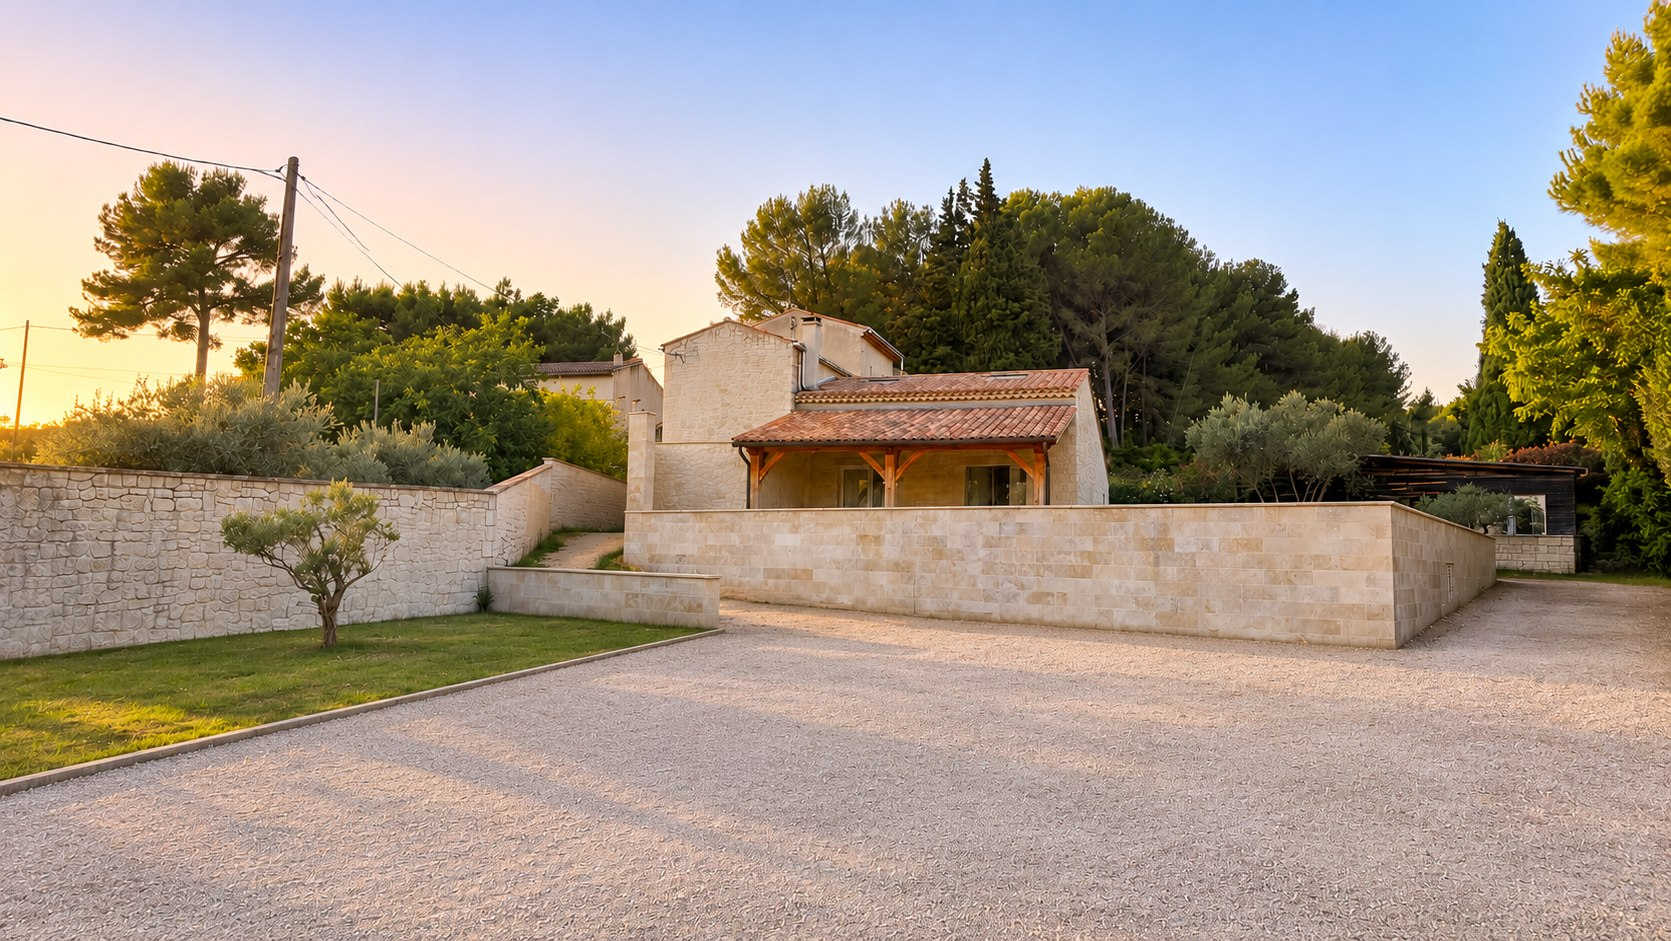
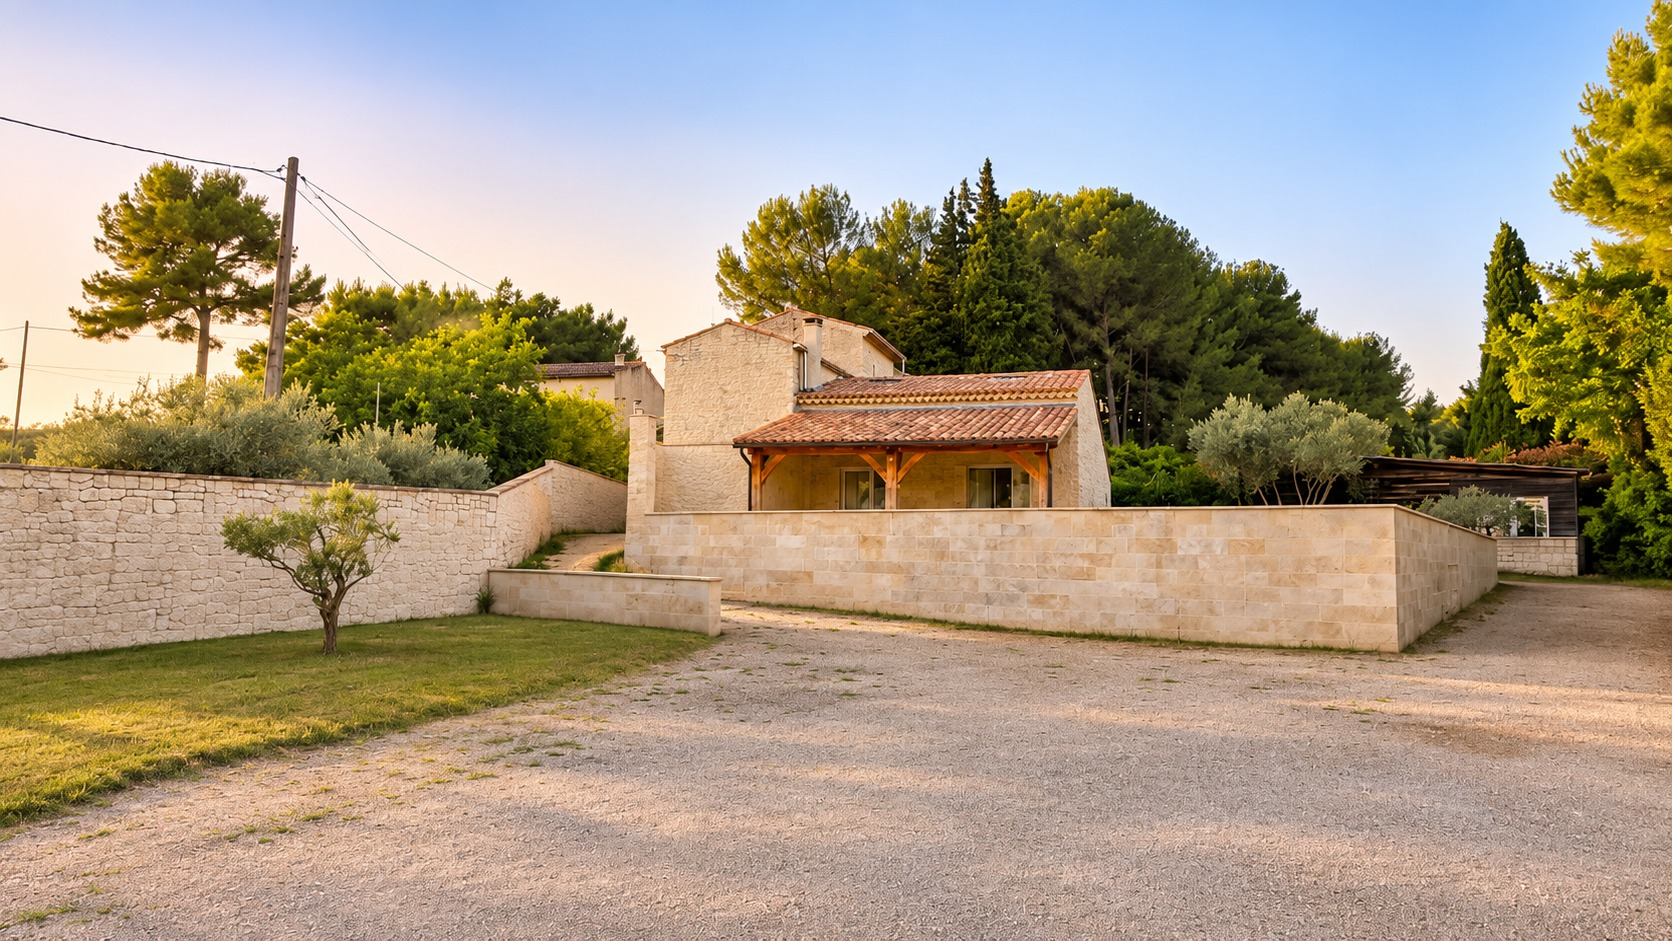
Add files via upload

diff --git a/style.css b/style.css
@@ -1,2 +1,41 @@
 
 :root{--olive:#35482d;--sand:#f5f0e7;--ink:#292e27;--muted:#5b6259}*{box-sizing:border-box}html{scroll-behavior:smooth}body{margin:0;background:var(--sand);color:var(--ink);font-family:Arial,Helvetica,sans-serif;line-height:1.75}a{color:inherit}.nav{background:#fff;display:flex;align-items:center;justify-content:space-between;gap:24px;padding:18px max(22px,calc((100vw - 1160px)/2));position:relative;z-index:5}.logo{font:normal 24px Georgia,serif;text-decoration:none;color:var(--olive)}.links{display:flex;align-items:center;gap:22px;flex-wrap:wrap}.links a{text-decoration:none;font-size:12px;letter-spacing:.06em;text-transform:uppercase}.links a[aria-current=page]{color:var(--olive);border-bottom:2px solid var(--olive);font-weight:700}.links a:hover{text-decoration:underline}.hero{min-height:620px;display:grid;place-items:center;position:relative;isolation:isolate;overflow:hidden;background:#81917c;color:#fff;text-align:center}.hero img{position:absolute;inset:0;width:100%;height:100%;object-fit:cover;object-position:center 55%;z-index:-2;animation:fadePhoto 2.2s ease both}.hero:after{content:'';position:absolute;inset:0;z-index:-1;background:linear-gradient(180deg,#1d271e61,#1d271e30 40%,#14200b8a)}.hero-content{padding:60px 20px}.overline,.kicker{letter-spacing:.24em;text-transform:uppercase;font-size:12px;font-weight:700}.hero h1{font:italic normal clamp(58px,10vw,130px)/1.04 Georgia,serif;margin:15px 0 24px}.hero p{font-size:clamp(15px,2vw,19px);line-height:1.8}.hero .overline,.hero h1,.hero .tagline,.hero .btn{animation:rise .9s both}.hero .overline{animation-delay:.9s}.hero h1{animation-delay:1.3s}.hero .tagline{animation-delay:1.7s}.hero .btn{animation-delay:2.1s}.btn{display:inline-flex;align-items:center;justify-content:center;text-decoration:none;padding:13px 25px;min-height:48px;background:var(--olive);color:white;border:1px solid var(--olive);font-size:12px;letter-spacing:.1em;text-transform:uppercase;margin-top:20px;transition:background .2s}.btn:hover{background:#4d6640}.btn.outline{color:var(--olive);background:transparent}.btn.outline:hover{background:#e6e9e1}.content{max-width:1160px;margin:auto;padding:78px 22px 95px}.content.narrow{max-width:860px}.page-intro{background:white}.page-head{text-align:center;padding:70px 22px 68px;background:#e8e9df}.page-head h1{font:normal clamp(40px,5vw,64px)/1.12 Georgia,serif;color:var(--olive);margin:12px 0 14px}.page-head p{max-width:720px;margin:0 auto;color:#485047;font-size:17px}.kicker{color:#76826b;margin:0}h2{font:normal clamp(30px,3.8vw,47px)/1.14 Georgia,serif;color:var(--olive);margin:12px 0 22px}h3{font:normal 25px Georgia,serif;color:var(--olive);margin:12px 0}.center{text-align:center}.center>p{max-width:780px;margin-left:auto;margin-right:auto}.cards{display:grid;grid-template-columns:repeat(3,minmax(0,1fr));gap:22px;margin-top:35px}.cards.two{grid-template-columns:repeat(2,minmax(0,1fr))}.card{padding:34px 30px;background:white;border-top:3px solid #9daa90}.card p{color:var(--muted);margin:0}.card .icon{font-size:28px}.split{display:grid;grid-template-columns:1.1fr 1fr;gap:55px;align-items:center}.split img{display:block;width:100%;aspect-ratio:4/3;object-fit:cover}.subnav{display:flex;justify-content:center;gap:15px;flex-wrap:wrap;margin-top:30px}.notice{background:#e8e9df;padding:27px;border-left:3px solid var(--olive)}.page-photo{width:100%;height:330px;object-fit:cover;display:block}footer{padding:27px 18px;background:var(--olive);color:#edf0e9;text-align:center;font-size:12px}footer a{margin:0 8px}.contact-cta{text-align:center;background:white;padding:65px 22px}.contact-cta p{max-width:700px;margin:auto}.note{color:#666;font-size:14px}.menu-toggle{display:none} @keyframes fadePhoto{from{opacity:0;transform:scale(1.04)}to{opacity:1;transform:scale(1)}}@keyframes rise{from{opacity:0;transform:translateY(18px)}to{opacity:1;transform:translateY(0)}}@media(max-width:760px){.nav{align-items:flex-start;flex-wrap:wrap;padding:15px 20px}.logo{font-size:21px}.menu-toggle{display:block;margin-left:auto;background:white;border:1px solid #aab3a6;color:var(--olive);padding:9px 13px;font:inherit;cursor:pointer}.links{display:none;flex-basis:100%;flex-direction:column;align-items:flex-start;gap:13px;padding:14px 0}.links.open{display:flex}.hero{min-height:590px}.hero h1{font-size:clamp(54px,12vw,82px)}.content{padding:56px 22px 70px}.cards,.cards.two,.split{grid-template-columns:1fr}.split{gap:25px}.page-head{padding:55px 22px}.page-photo{height:230px}}@media(prefers-reduced-motion:reduce){html{scroll-behavior:auto}.hero img,.hero .overline,.hero h1,.hero .tagline,.hero .btn{animation:none}}
+
+
+/* ACCUEIL V2 — styles indépendants, sans modifier les autres pages */
+.home-v2{background:#faf8f4}
+.home-v2 .nav{padding-top:16px;padding-bottom:16px}
+.home-v2 .logo em{font-weight:normal}
+.home-v2 .nav-contact{padding:10px 16px;border:1px solid var(--olive);color:var(--olive)}
+.home-v2 .esc-home-hero{height:clamp(570px,73vw,740px);position:relative;display:flex;align-items:center;justify-content:center;isolation:isolate;color:white;overflow:hidden;background:#68736a;text-align:center}
+.home-v2 .esc-home-photo{position:absolute;inset:0;width:100%;height:100%;object-fit:cover;object-position:center 56%;z-index:-2;animation:escReveal 2.1s ease-out both}
+.home-v2 .esc-home-shade{position:absolute;inset:0;z-index:-1;background:linear-gradient(180deg,rgba(24,35,27,.28),rgba(25,35,28,.27) 38%,rgba(23,36,28,.65) 100%)}
+.home-v2 .esc-home-copy{position:relative;padding:32px 22px;max-width:900px;margin-top:12px}
+.home-v2 .esc-home-location{display:inline-block;text-transform:uppercase;letter-spacing:.33em;font-size:11px;font-weight:700;animation:escLift 1s 1s both}
+.home-v2 .esc-home-prefix{font:normal 27px Georgia,serif;margin:25px 0 -4px;animation:escLift 1s 1.4s both}
+.home-v2 .esc-home-copy h1{font:italic normal clamp(65px,11.2vw,151px)/1 Georgia,serif;letter-spacing:-.035em;margin:0 0 23px;animation:escLift 1.2s 1.8s both;text-wrap:balance}
+.home-v2 .esc-home-desc{font:normal clamp(16px,2vw,21px)/1.6 Georgia,serif;margin:0 auto 13px;max-width:680px;animation:escLift 1s 2.2s both}
+.home-v2 .esc-home-action{display:inline-flex;align-items:center;justify-content:center;gap:24px;margin-top:25px;padding:13px 23px;border:1px solid rgba(255,255,255,.85);color:white;background:rgba(38,57,41,.55);text-decoration:none;text-transform:uppercase;letter-spacing:.12em;font-size:11px;min-height:49px;transition:background .2s ease;animation:escLift 1s 2.6s both}
+.home-v2 .esc-home-action:hover{background:#35482d}
+.home-v2 .esc-home-corner{position:absolute;right:28px;bottom:20px;font-size:10px;letter-spacing:.2em;color:#f7f7f5a6}
+.home-v2 .esc-home-summary{display:flex;justify-content:center;align-items:center;gap:0;background:#35482d;color:#fff;padding:24px 25px;text-align:center}
+.home-v2 .esc-home-summary span{font-size:12px;letter-spacing:.07em;padding:5px 34px;border-right:1px solid #ffffff38}
+.home-v2 .esc-home-summary span:last-child{border:0}
+.home-v2 .esc-home-summary strong{font-weight:700;color:#fff}
+.home-v2 .esc-home-intro{max-width:830px;text-align:center;margin:auto;padding:76px 25px 49px}
+.home-v2 .esc-home-intro h2{font-size:clamp(32px,4.1vw,53px);margin:16px auto 23px;max-width:800px}
+.home-v2 .esc-home-intro>p:last-child{color:#5c6259;max-width:740px;margin:auto;font-size:16px}
+.home-v2 .esc-home-directory{max-width:1170px;margin:0 auto;padding:0 25px 90px;display:grid;grid-template-columns:repeat(3,minmax(0,1fr));gap:18px}
+.home-v2 .esc-home-tile{min-height:220px;background:#f0eee7;text-decoration:none;padding:25px 28px;display:flex;flex-direction:column;position:relative;border-top:2px solid #a6af99;transition:background .2s ease,transform .2s ease}
+.home-v2 .esc-home-tile:hover{background:#e6e9dd;transform:translateY(-3px)}
+.home-v2 .esc-home-number{font-size:11px;letter-spacing:.16em;color:#8c9685}
+.home-v2 .esc-home-tile-title{font:normal 30px Georgia,serif;color:#35482d;margin-top:25px}
+.home-v2 .esc-home-tile-note{font-size:13px;color:#687064;margin-top:9px}
+.home-v2 .esc-home-arrow{position:absolute;right:25px;bottom:18px;font:normal 25px Georgia,serif;color:#35482d}
+.home-v2 .esc-home-bottom{background:#e7e9df;padding:52px max(25px,calc((100vw - 1100px)/2));display:flex;align-items:center;justify-content:space-between;gap:35px}
+.home-v2 .esc-home-bottom h2{margin-bottom:0;font-size:clamp(32px,3.7vw,45px)}
+.home-v2 .esc-home-bottom .esc-home-action{animation:none;margin:0;flex-shrink:0;background:#35482d;border-color:#35482d}
+@keyframes escReveal{from{opacity:0;transform:scale(1.035)}to{opacity:1;transform:scale(1)}}
+@keyframes escLift{from{opacity:0;transform:translateY(19px)}to{opacity:1;transform:translateY(0)}}
+@media(max-width:760px){.home-v2 .nav-contact{border:0;padding:0}.home-v2 .esc-home-hero{height:590px}.home-v2 .esc-home-prefix{font-size:21px}.home-v2 .esc-home-copy h1{font-size:clamp(51px,12vw,85px);margin-bottom:17px}.home-v2 .esc-home-desc{font-size:16px}.home-v2 .esc-home-summary{flex-wrap:wrap;gap:7px;padding:20px 12px}.home-v2 .esc-home-summary span{width:100%;border-right:0;padding:2px}.home-v2 .esc-home-intro{padding:60px 22px 43px}.home-v2 .esc-home-directory{grid-template-columns:1fr;padding:0 22px 65px;gap:12px}.home-v2 .esc-home-tile{min-height:165px}.home-v2 .esc-home-tile-title{margin-top:14px}.home-v2 .esc-home-bottom{flex-direction:column;align-items:flex-start;padding:47px 25px}}
+@media(prefers-reduced-motion:reduce){.home-v2 .esc-home-photo,.home-v2 .esc-home-location,.home-v2 .esc-home-prefix,.home-v2 .esc-home-copy h1,.home-v2 .esc-home-desc,.home-v2 .esc-home-action{animation:none}}

diff --git a/index.html b/index.html
@@ -1,1 +1,64 @@
-<!doctype html><html lang="fr"><head><meta charset="utf-8"><meta name="viewport" content="width=device-width,initial-scale=1"><meta name="description" content="Chambres meublées à Saint-Chamas, avec espaces privatifs et communs. Locations à la semaine et au mois."><title>Accueil | Domaine L’Escapade</title><link rel="stylesheet" href="style.css"></head><body><header><nav class="nav" aria-label="Menu principal"><a class="logo" href="index.html">Domaine L’Escapade</a><button class="menu-toggle" type="button" aria-expanded="false" aria-controls="nav-links">☰ Menu</button><div class="links" id="nav-links"><a href="index.html" aria-current="page">Accueil</a><a href="chambres.html">Nos chambres</a><a href="espaces.html">Espaces communs</a><a href="locations.html">Locations</a><a href="contact.html">Contact</a></div></nav></header><main><section class="hero"><img src="assets/domaine.jpg" alt="Domaine L’Escapade à Saint-Chamas, façade en pierre et terrasse"><div class="hero-content"><div class="overline">Saint-Chamas · Provence</div><h1>L’Escapade</h1><p class="tagline">Cinq chambres meublées avec salle de bain et WC privatifs<br>Locations à la semaine, au mois ou pour une durée prolongée</p><a class="btn" href="chambres.html">Découvrir nos chambres</a></div></section><section class="content center"><p class="kicker">Bienvenue</p><h2>Un lieu où séjourner à votre rythme</h2><p>Au Domaine L’Escapade, nous proposons cinq chambres meublées à Saint-Chamas, adaptées notamment aux déplacements professionnels et aux séjours prolongés. Chacun dispose de son espace privatif et profite d’équipements communs pour le quotidien.</p><div class="cards"><article class="card"><span class="icon" aria-hidden="true">🛏</span><h3>Nos chambres</h3><p>Cinq chambres avec salle de bain et WC privatifs.</p><a class="btn outline" href="chambres.html">Voir les chambres</a></article><article class="card"><span class="icon" aria-hidden="true">🍳</span><h3>Espaces communs</h3><p>Cuisine équipée et espace buanderie à partager.</p><a class="btn outline" href="espaces.html">Découvrir</a></article><article class="card"><span class="icon" aria-hidden="true">📅</span><h3>Vos locations</h3><p>À la semaine, au mois ou sur une durée plus longue.</p><a class="btn outline" href="locations.html">Les formules</a></article></div></section><section class="contact-cta"><p class="kicker">Votre séjour</p><h2>Une question sur les disponibilités ?</h2><p>Indiquez-nous les dates et la durée de location envisagées pour recevoir les renseignements utiles.</p><a class="btn" href="contact.html">Nous contacter</a></section></main><footer>© 2026 Domaine L’Escapade · Saint-Chamas<br><a href="index.html">Accueil</a> · <a href="chambres.html">Nos chambres</a> · <a href="espaces.html">Espaces communs</a> · <a href="locations.html">Locations</a> · <a href="contact.html">Contact</a></footer><script>const b=document.querySelector('.menu-toggle');const links=document.querySelector('.links');b.addEventListener('click',()=>{const open=links.classList.toggle('open');b.setAttribute('aria-expanded',String(open));});</script></body></html>
+<!doctype html>
+<html lang="fr">
+<head>
+  <meta charset="utf-8">
+  <meta name="viewport" content="width=device-width, initial-scale=1">
+  <meta name="description" content="Au Domaine L’Escapade à Saint-Chamas, cinq chambres meublées avec salle de bain et WC privatifs, disponibles à la semaine, au mois ou pour un séjour prolongé.">
+  <title>Domaine L’Escapade | Chambres meublées à Saint-Chamas</title>
+  <link rel="stylesheet" href="style.css">
+</head>
+<body class="home-v2">
+  <header>
+    <nav class="nav" aria-label="Navigation principale">
+      <a class="logo" href="index.html">Domaine <em>L’Escapade</em></a>
+      <button class="menu-toggle" type="button" aria-controls="nav-links" aria-expanded="false">☰ Menu</button>
+      <div class="links" id="nav-links">
+        <a href="index.html" aria-current="page">Accueil</a>
+        <a href="chambres.html">Nos chambres</a>
+        <a href="espaces.html">Espaces communs</a>
+        <a href="locations.html">Locations</a>
+        <a class="nav-contact" href="contact.html">Nous contacter</a>
+      </div>
+    </nav>
+  </header>
+  <main>
+    <section class="esc-home-hero" aria-label="Bienvenue au Domaine L’Escapade">
+      <img class="esc-home-photo" src="assets/domaine.jpg" alt="Vue extérieure du Domaine L’Escapade à Saint-Chamas, maison provençale et murs en pierre" fetchpriority="high">
+      <div class="esc-home-shade"></div>
+      <div class="esc-home-copy">
+        <span class="esc-home-location">Saint-Chamas · Provence</span>
+        <p class="esc-home-prefix">Bienvenue au Domaine</p>
+        <h1>L’Escapade</h1>
+        <p class="esc-home-desc">Votre chambre meublée, pour une semaine, un mois ou davantage.</p>
+        <a class="esc-home-action" href="chambres.html">Découvrir nos chambres <span aria-hidden="true">→</span></a>
+      </div>
+      <span class="esc-home-corner" aria-hidden="true">01 / 05</span>
+    </section>
+    <section class="esc-home-summary" aria-label="Les points forts">
+      <span><strong>05</strong> chambres meublées</span>
+      <span><strong>100 %</strong> sanitaires privatifs</span>
+      <span><strong>À la semaine ou au mois</strong> & séjours prolongés</span>
+    </section>
+    <section class="esc-home-intro">
+      <p class="kicker">Une adresse à Saint-Chamas</p>
+      <h2>Un hébergement pensé pour les séjours qui durent.</h2>
+      <p>Le Domaine L’Escapade propose cinq chambres meublées, chacune avec sa salle de bain et ses WC privatifs. Une cuisine commune équipée et un espace buanderie facilitent la vie quotidienne, notamment lors des déplacements professionnels et des séjours prolongés.</p>
+    </section>
+    <section class="esc-home-directory" aria-label="Explorer le domaine">
+      <a class="esc-home-tile" href="chambres.html"><span class="esc-home-number">01</span><span class="esc-home-tile-title">Les chambres</span><span class="esc-home-tile-note">5 espaces privatifs à découvrir</span><span class="esc-home-arrow" aria-hidden="true">↗</span></a>
+      <a class="esc-home-tile" href="espaces.html"><span class="esc-home-number">02</span><span class="esc-home-tile-title">La vie sur place</span><span class="esc-home-tile-note">Cuisine équipée et buanderie</span><span class="esc-home-arrow" aria-hidden="true">↗</span></a>
+      <a class="esc-home-tile" href="locations.html"><span class="esc-home-number">03</span><span class="esc-home-tile-title">Les locations</span><span class="esc-home-tile-note">Semaine, mois et longue durée</span><span class="esc-home-arrow" aria-hidden="true">↗</span></a>
+    </section>
+    <section class="esc-home-bottom"><div><p class="kicker">Une demande de séjour ?</p><h2>Parlons de vos dates.</h2></div><a class="esc-home-action" href="contact.html">Demander les disponibilités <span aria-hidden="true">→</span></a></section>
+  </main>
+  <footer>© 2026 Domaine L’Escapade · Saint-Chamas<br><a href="index.html">Accueil</a> · <a href="chambres.html">Nos chambres</a> · <a href="espaces.html">Espaces communs</a> · <a href="locations.html">Locations</a> · <a href="contact.html">Contact</a></footer>
+  <script>
+    const menuButton=document.querySelector('.menu-toggle');
+    const menuLinks=document.querySelector('.links');
+    menuButton.addEventListener('click',()=>{
+      const isOpen=menuLinks.classList.toggle('open');
+      menuButton.setAttribute('aria-expanded',String(isOpen));
+    });
+  </script>
+</body>
+</html>
